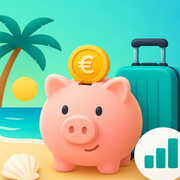
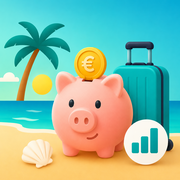
Substitui ícone PWA por versão sem rebordo (nova arte enviada)
Claude-Session: https://claude.ai/code/session_01GzaEp4cY3vLshJbFnSBnBV

diff --git a/sw.js b/sw.js
@@ -1,4 +1,4 @@
-const CACHE_NAME = 'app-cache-v3';
+const CACHE_NAME = 'app-cache-v4';
 
 self.addEventListener('install', () => self.skipWaiting());
 